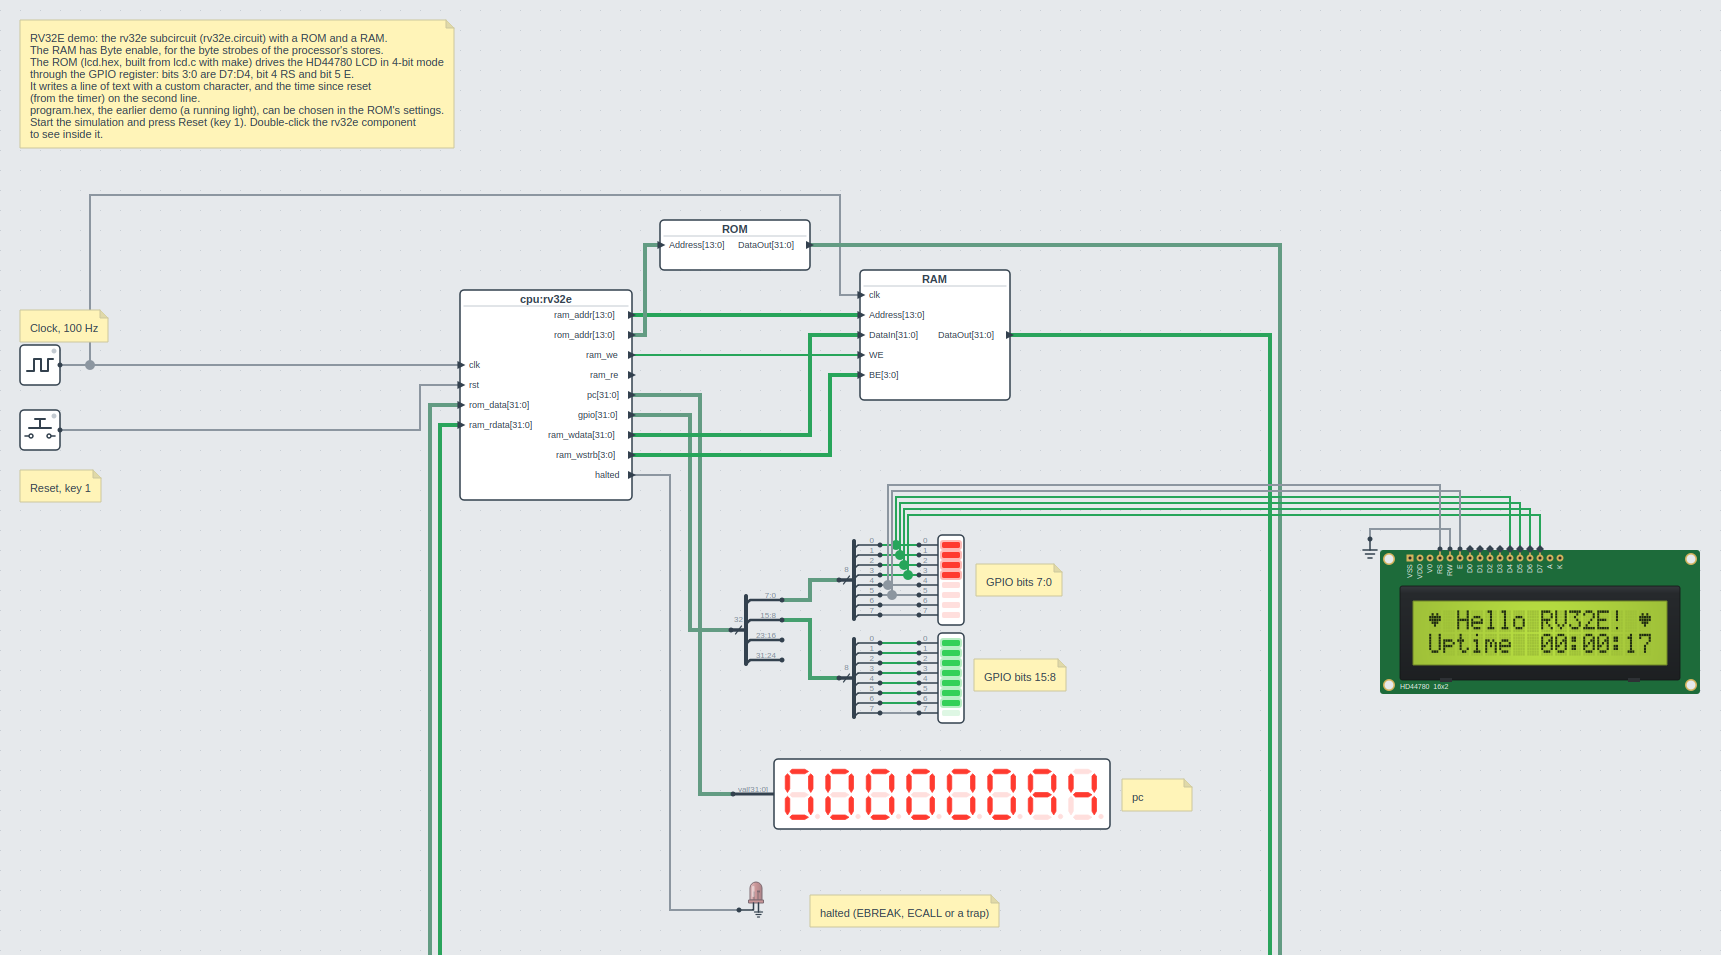
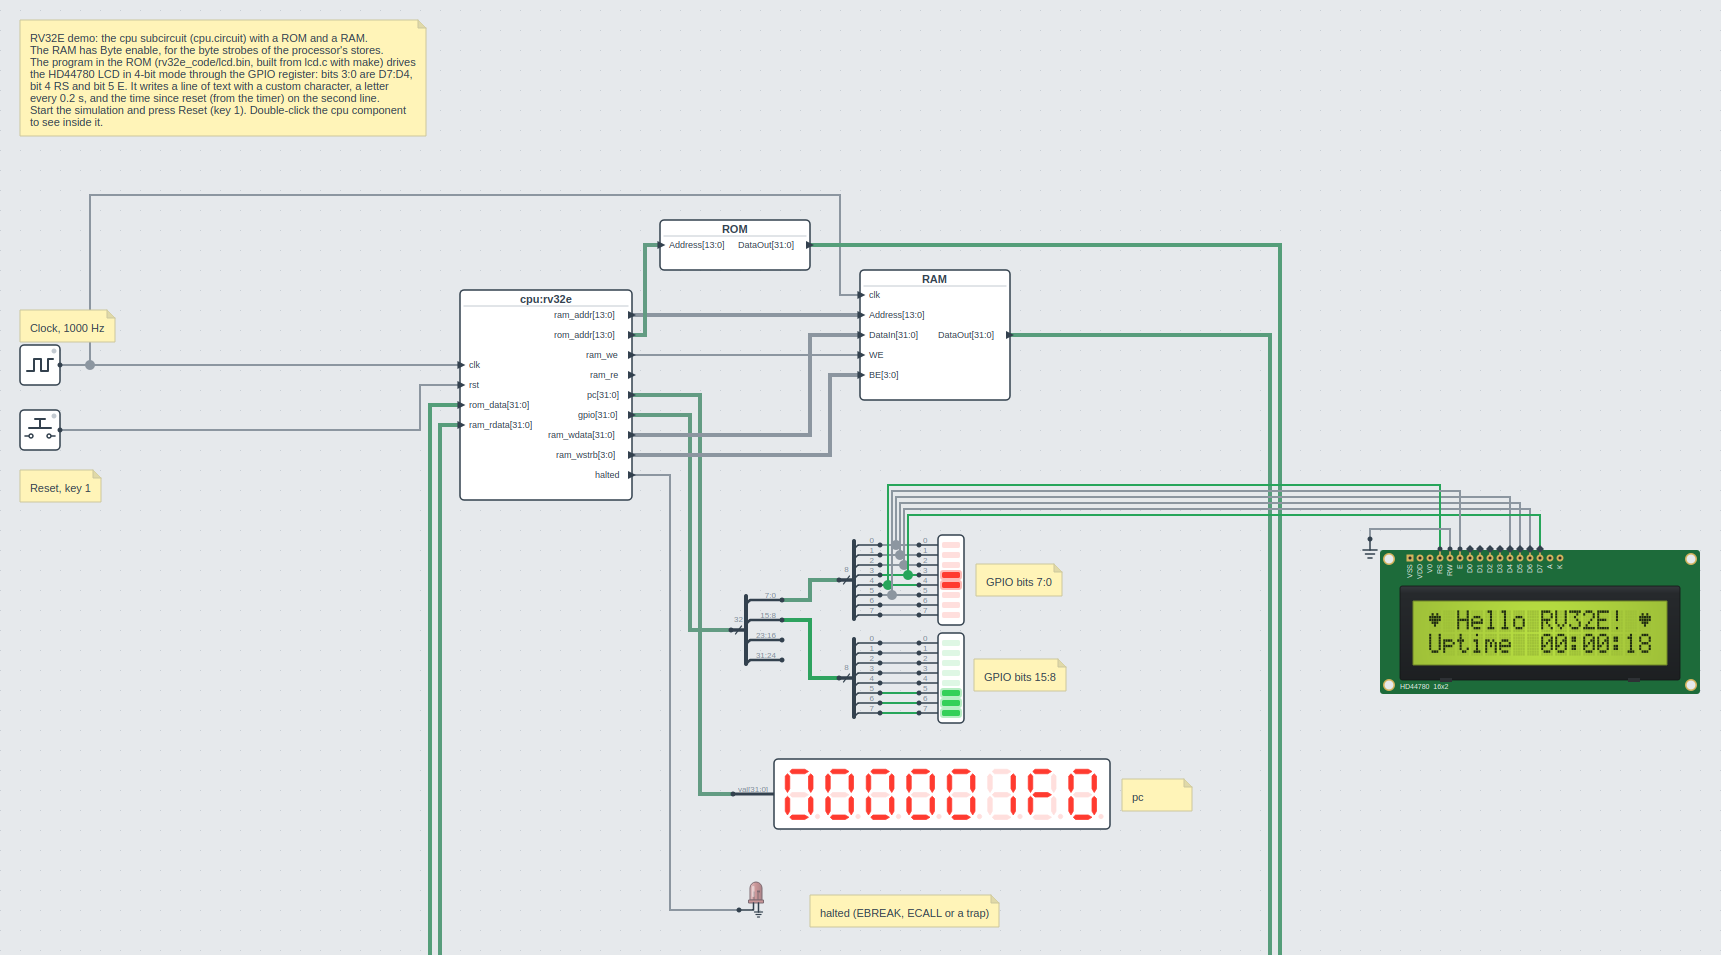
Run the RV32E demo at 1000 Hz, and write its hello text a letter at a time
At 100 Hz the demo was slow to show anything, and the program assumed that
clock in a number of its own. lcd.c now has defines for the clock (1000 Hz,
the clock of the circuit) and for the time between the letters of the
hello text (0.2 s), which it waits for on the timer.

diff --git a/circuits/rv32e/rv32e_code/lcd.c b/circuits/rv32e/rv32e_code/lcd.c
@@ -12,13 +12,14 @@
 // and the bar each write their own byte and leave the other one as it is.
 //
 // It sets up the LCD (4-bit mode, two lines), makes a heart the custom character 0,
-// writes a line of text between two hearts, and then shows the time since reset on the
-// second line, forever. The time is from the timer, which counts the clock cycles since
-// reset: a second is CLOCK_HZ cycles. The rv32e has no divide instruction (a division
-// in software takes seconds at 100 Hz), so the time steps on a second at a time. It
-// catches up with the timer first (at the start, the LCD has taken seconds to set up),
-// then only the digits that changed are written (the processor runs 100 instructions a
-// second, a character takes about 30).
+// writes a line of text between two hearts, a letter every LETTER_MS milliseconds, and
+// then shows the time since reset on the second line, forever. The time is from the
+// timer, which counts the clock cycles since reset: a second is CLOCK_HZ cycles. The
+// rv32e has no divide instruction (a division in software takes hundreds of cycles), so
+// the time steps on a second at a time. It catches up with the timer first (at the
+// start, the LCD has taken a while to set up), then only the digits that changed are
+// written (the processor runs CLOCK_HZ instructions a second, a character takes about
+// 30).
 
 #include <stdint.h>
 
@@ -35,7 +36,12 @@ extern volatile struct gpio GPIO;
 extern volatile const uint32_t TIMER;
 
 // The clock of rv32e_demo.circuit
-#define CLOCK_HZ 100
+#define CLOCK_HZ 1000
+
+// The time between the letters of the hello text, and in clock cycles (the compiler
+// divides, the processor can't)
+#define LETTER_MS 200
+#define LETTER_CYCLES (CLOCK_HZ * LETTER_MS / 1000)
 
 #define RS 0x10
 #define E 0x20
@@ -93,6 +99,25 @@ static void lcd_write(const char *text)
     }
 }
 
+// Wait for a number of clock cycles, by the timer (it can wrap around)
+static void wait_cycles(uint32_t cycles)
+{
+    uint32_t start = TIMER;
+    while (TIMER - start < cycles) {
+    }
+}
+
+// Write a text a letter at a time, LETTER_MS between the letters
+static void lcd_write_slowly(const char *text)
+{
+    while (*text) {
+        lcd_data((uint8_t)*text++);
+        if (*text) {
+            wait_cycles(LETTER_CYCLES);
+        }
+    }
+}
+
 // One second more: the seconds go up, and the digits before them when they wrap around.
 // Returns the place of the first digit that changed.
 static int time_add_second(void)
@@ -144,7 +169,7 @@ int main(void)
     }
     lcd_command(0x80); // The DDRAM address 0, the first line
     // The heart is character 0, written as 8 (the same character)
-    lcd_write("\x08 Hello RV32E! \x08");
+    lcd_write_slowly("\x08 Hello RV32E! \x08");
     lcd_command(0xc0); // The DDRAM address 0x40, the second line
     lcd_write("Uptime  ");
     // The timer when the next second has passed, it can wrap around

diff --git a/docs/scripts/generate_examples.py b/docs/scripts/generate_examples.py
@@ -894,7 +894,7 @@ def screenshots() -> None:
             simulate(300)
         elif name == "rv32e_demo":
             # Reset the processor, then run until the LCD shows the uptime and the bar on
-            # GPIO bits 15:8 runs (100 Hz clock)
+            # GPIO bits 15:8 runs (1000 Hz clock)
             reset = circuit.get_component("reset")
             assert isinstance(reset, PushButton)
             reset.push()

diff --git a/docs/gui-examples.md b/docs/gui-examples.md
@@ -105,16 +105,16 @@ simulation runs to play a tune.
 
 `rv32e_demo.circuit` in `circuits/rv32e/` is a small computer: a RISC-V RV32E processor
 that runs a C program and writes to an HD44780 character LCD. Start the simulation and
-press Reset (shortcut **1**). After a few seconds of simulated time the LCD shows
-"Hello RV32E!" between two hearts (a custom character), and the time since reset on the
-second line.
+press Reset (shortcut **1**). The LCD writes "Hello RV32E!" between two hearts (a custom
+character), a letter every 0.2 seconds of simulated time, and then the time since reset on
+the second line.
 
 - The processor is the `cpu` subcircuit (`cpu.circuit`): the RV32E core in Verilog
   ([`rv32e.v`](https://github.com/freand76/digsim/blob/main/circuits/rv32e/rv32e.v), a
   Verilog component that runs one instruction per clock cycle) with its memory system, an
   arbiter, a GPIO register and a timer, each a subcircuit of its own. Double-click it to
   see inside it, the memory map is in a note there.
-- A 100 Hz clock drives it. The ROM holds the program, `rv32e_code/lcd.bin`, and the RAM
+- A 1000 Hz clock drives it. The ROM holds the program, `rv32e_code/lcd.bin`, and the RAM
   has a byte enable input for the byte strobes of the processor's stores.
 - The program drives the LCD in 4-bit mode through byte 0 of the GPIO register: bits 3:0
   are D7:D4, bit 4 is RS and bit 5 is E. Once the text is written, byte 1 (bits 15:8) is a

diff --git a/CHANGELOG.md b/CHANGELOG.md
@@ -1,6 +1,7 @@
 # CHANGELOG
 
 ## vx.x.x
+ - RV32E example circuit: the clock runs at 1000 Hz (was 100 Hz), and the program writes the hello text a letter every 0.2 s. lcd.c has defines for the clock and the delay
  - Clock: the frequency is set as a number and a unit (Hz, kHz or MHz), from 1 Hz to 100 MHz (was a slider, 1–100 Hz). It is saved in Hz as before, so older circuits open unchanged
  - VerilogComponent: the YosysComponent by the name of what it is made from, a Verilog file (or a Yosys netlist), with the same arguments. The examples use it
  - Verilog (Yosys) components: the flip-flops and latches start undefined ("X"), as in Verilog and in hardware, or at the initial value of the Verilog (like "reg ready = 0", or the initial contents of a memory). They started at 0, which hid a register that is read before it is reset (an Icarus simulation shows it as X). Needs digsim-native 0.4.0 for the native engine
